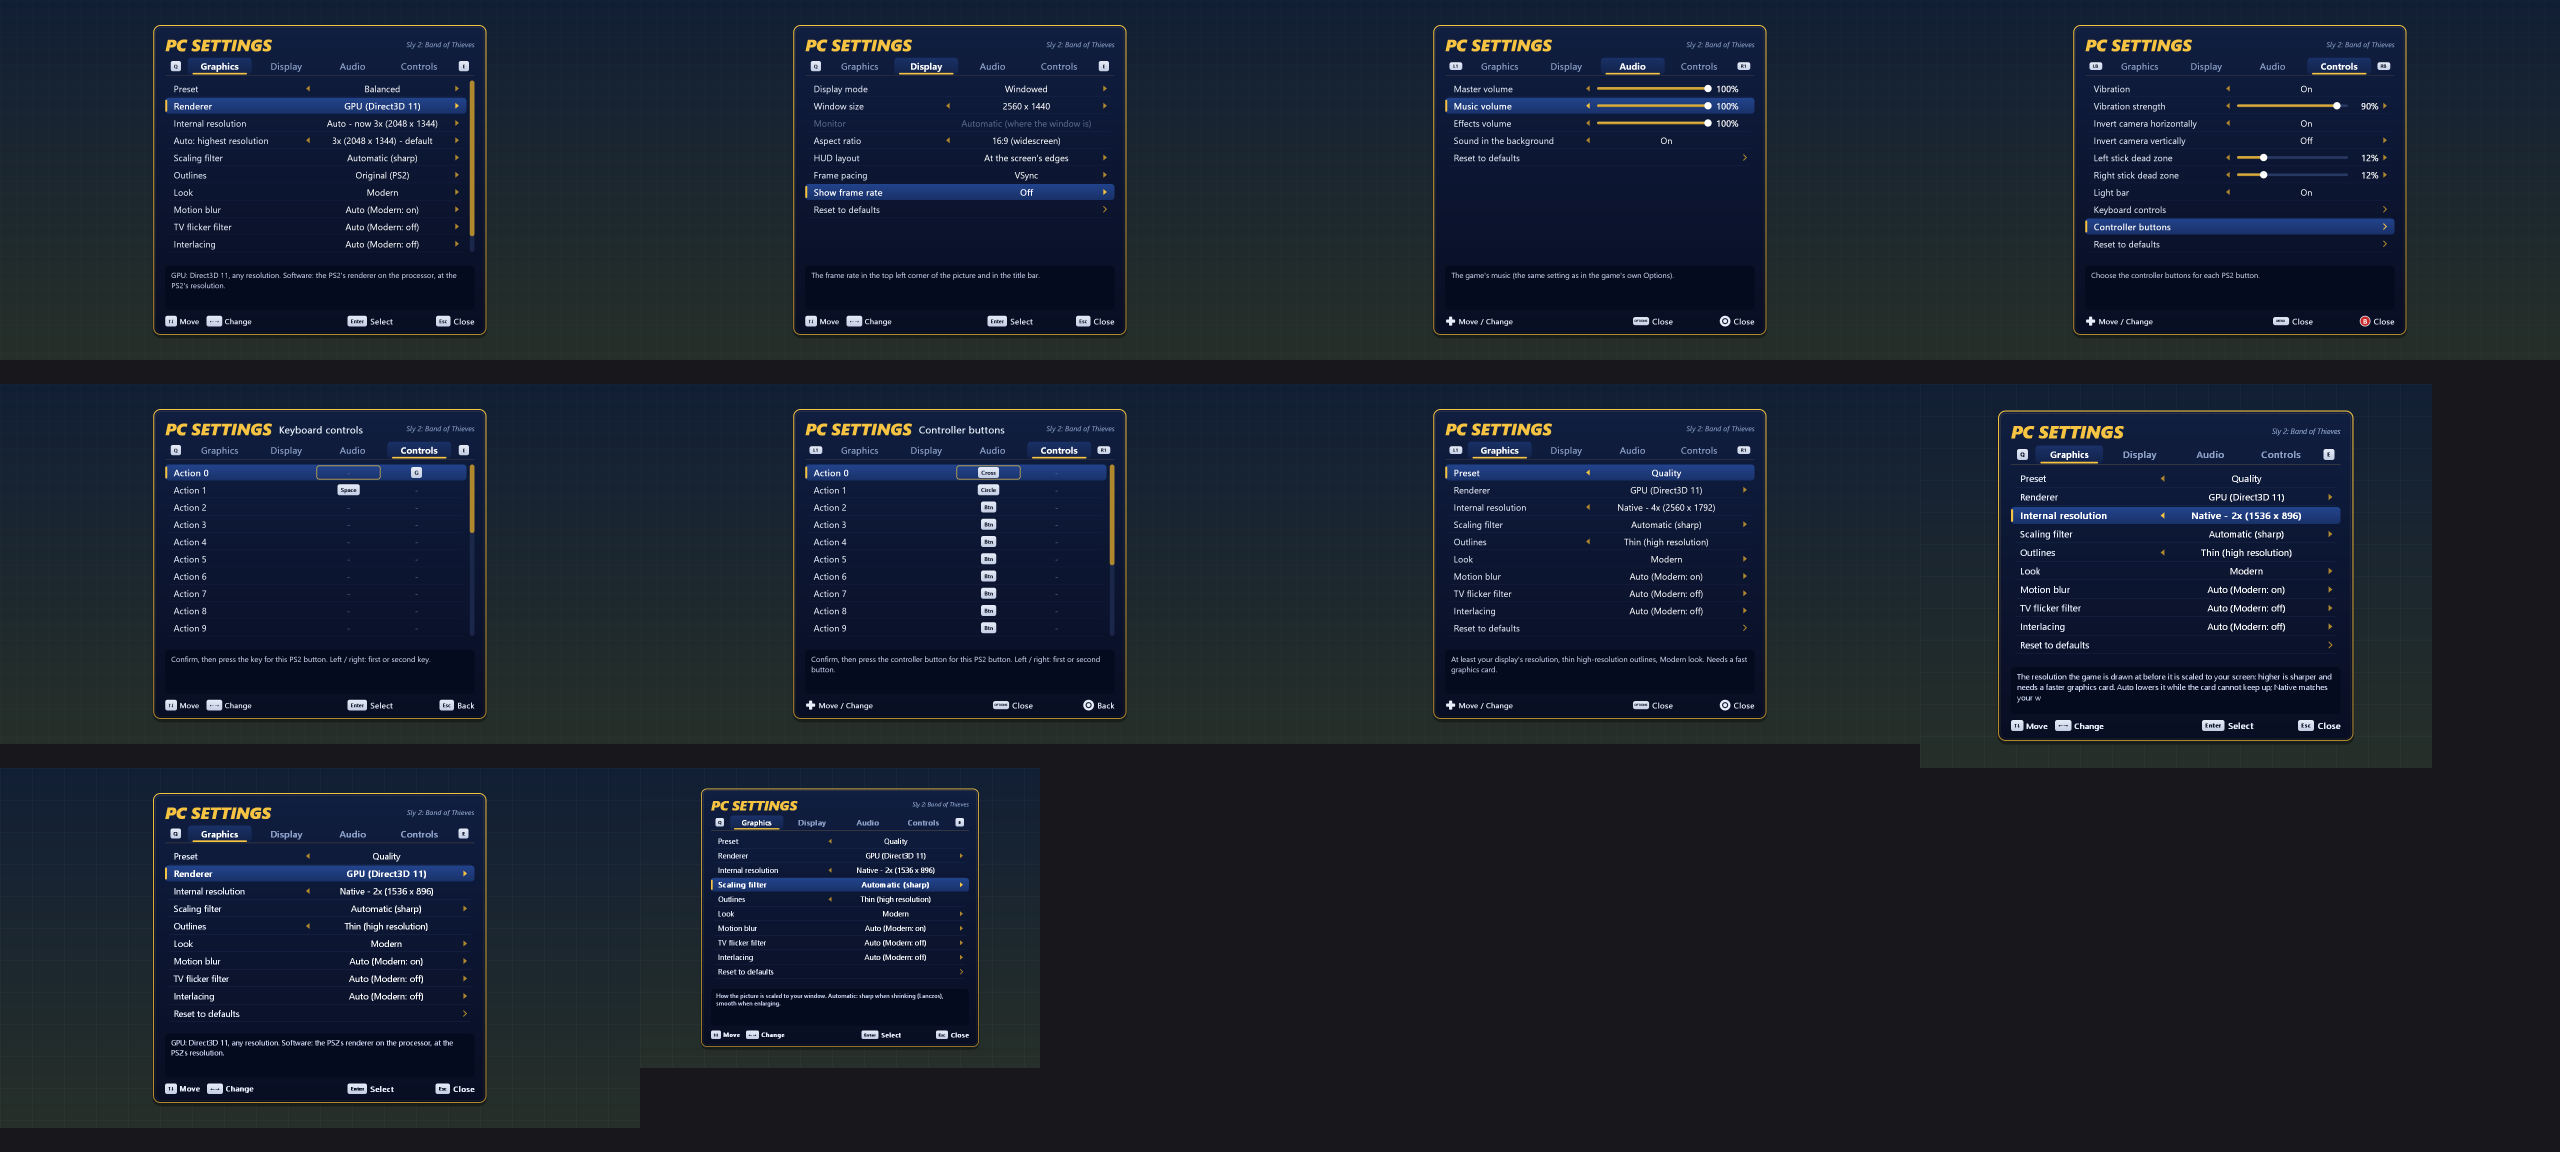
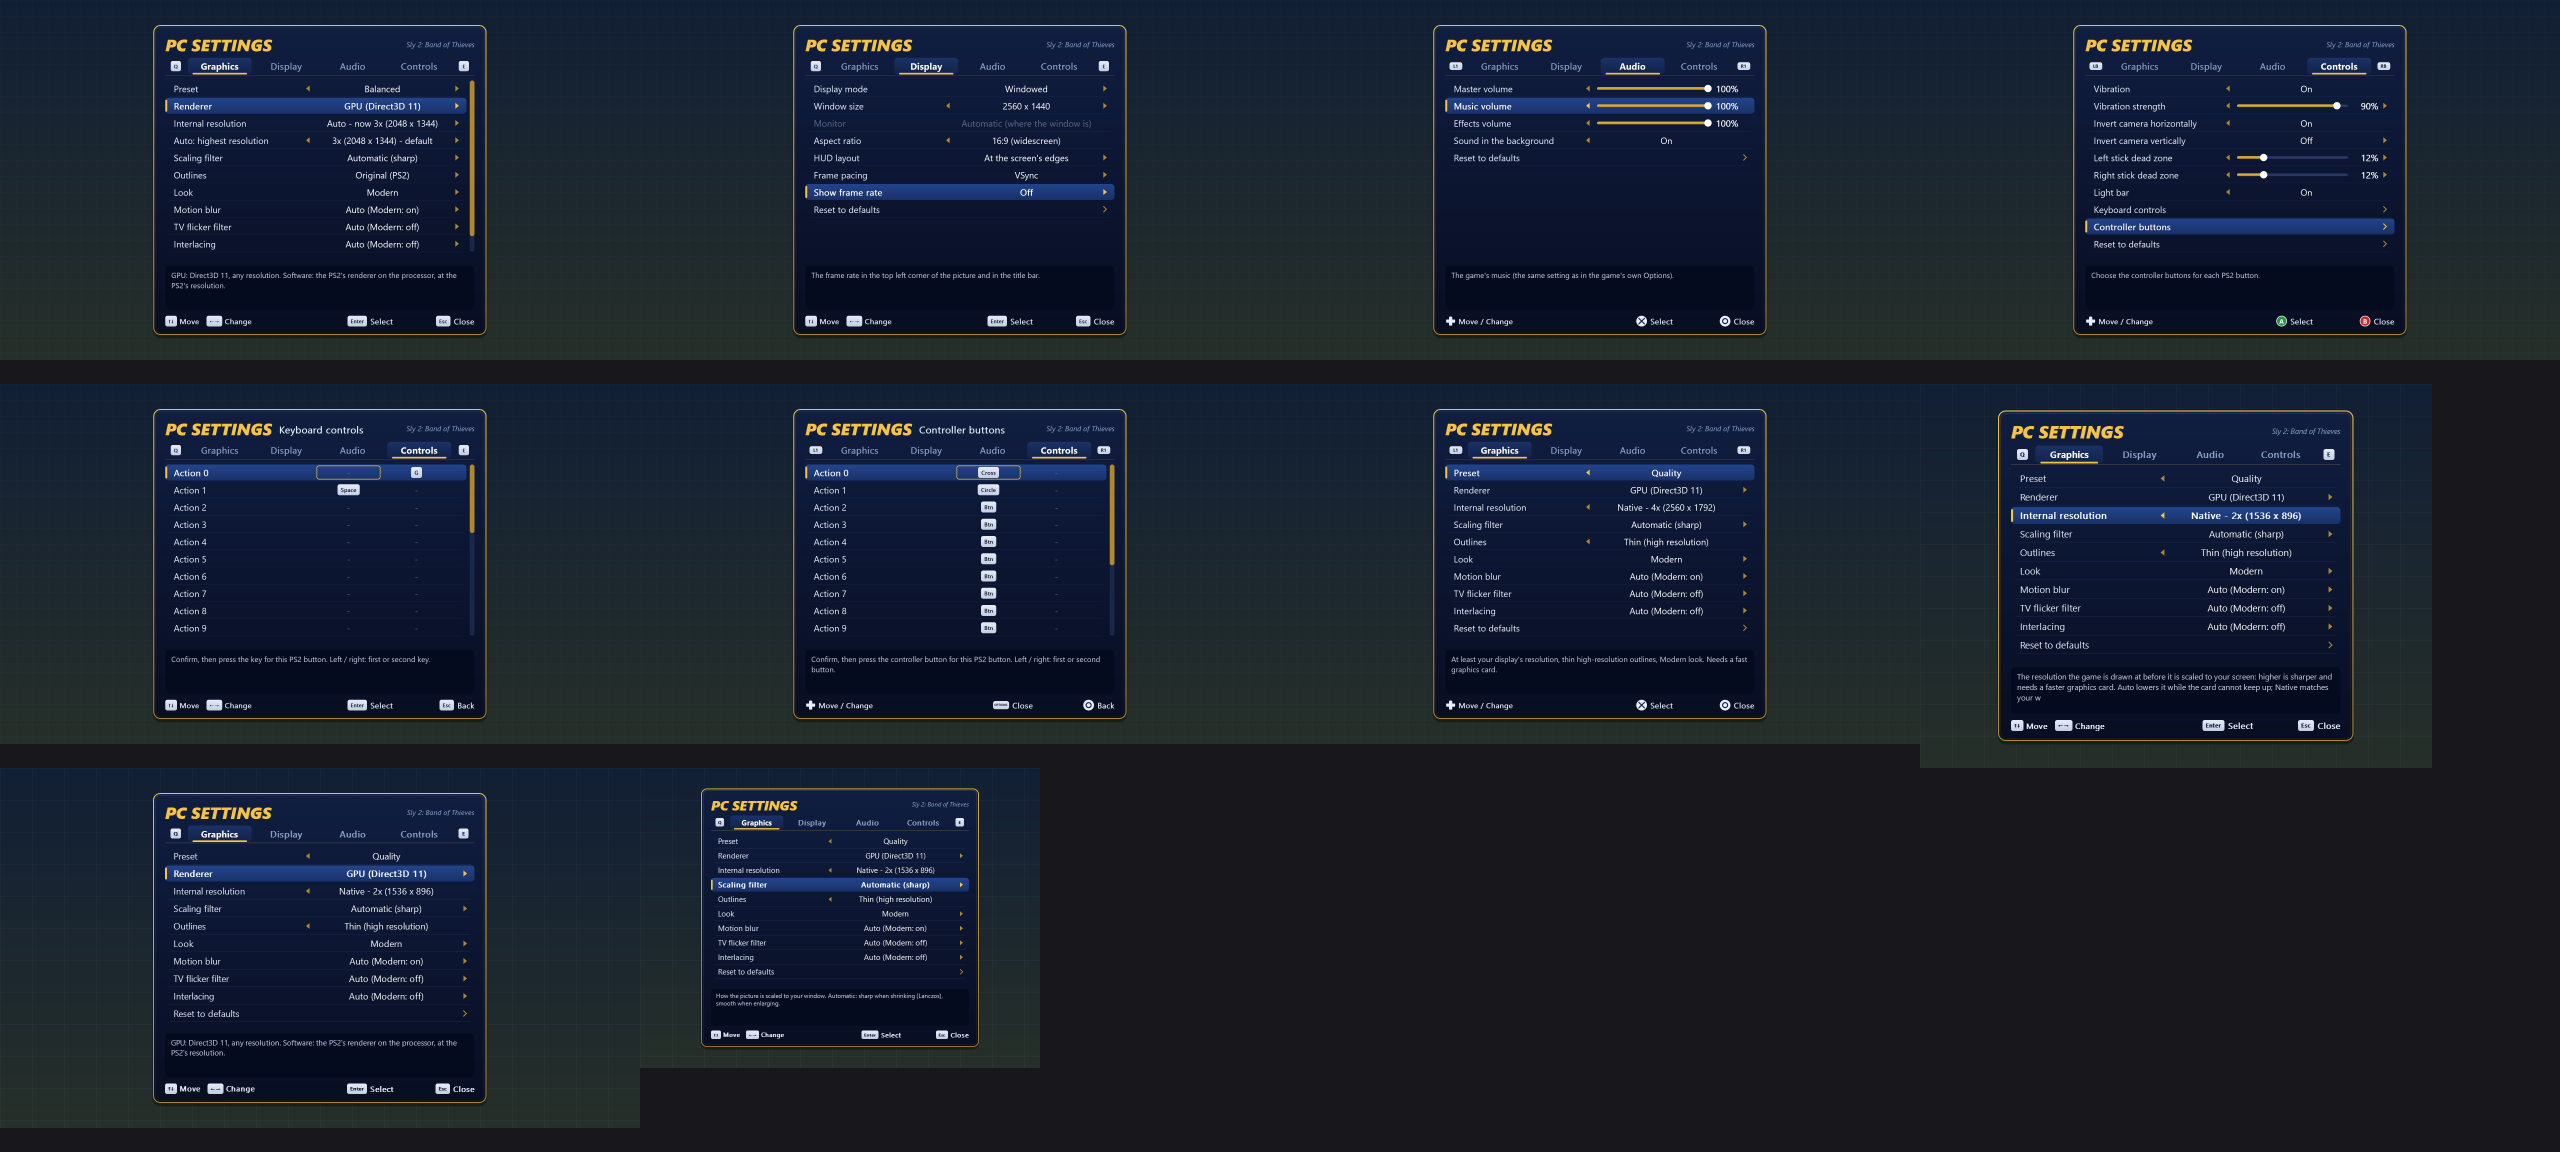
menu: aspect choices reduced (16:10 = 8:5), game volumes kept against save loads / adopted from the game's Options page, headless display applier, GDI screenshots, natural-width text

diff --git a/runtime/menu_game.c b/runtime/menu_game.c
@@ -109,13 +109,11 @@ void pcmenu_start(ps2_ctx* ctx) {
 volatile LONG pcmenu_open_pending;
 static volatile ULONGLONG open_deadline;
 
-static void sync_volumes_from_game(void);
-
 /* Esc / PS button / "menu" token: the game's pause menu first (the game is paused while the menu is open), then the
  * menu; where the game cannot pause (title, movies, loading) the menu opens over it after 0.5 s */
 static void request_open(void) {
     if (menu_is_open()) return;
-    if (pause_list_up()) { sync_volumes_from_game(); menu_open(); return; }
+    if (pause_list_up()) { menu_open(); return; }
     open_deadline = GetTickCount64() + 500;
     InterlockedExchange(&pcmenu_open_pending, 1);
     pcmenu_pause_req = 1;
@@ -127,7 +125,6 @@ static void tick(void) {
     if (pause_idle() || GetTickCount64() > open_deadline) {
         if (!InterlockedExchange(&pcmenu_open_pending, 0)) return;
         pcmenu_pause_req = 0;
-        sync_volumes_from_game();
         menu_open();
     }
 }
@@ -150,14 +147,31 @@ void menu_focus(int active) {
     update_gain();
 }
 
-/* the game's own music / effects volumes changed (its Options page, a loaded save): the menu shows and keeps them */
-static void sync_volumes_from_game(void) {
-    if (!ee_applied || !ps2_ram) return;
+/* The game's music / effects volumes (its sound manager: +0x150 = kind 1 category 1, +0x14C = kind 1 category 0)
+ * changed after we set them. On its own Options page (pause menu depth >= 2, page 2 = the options list 0x2F6470)
+ * that is the player: the menu takes the new values over (sly2.ini too). Anywhere else (a loaded save sets the
+ * volumes it was saved with): ours again. */
+#define PM_PAGE2_ENTRIES 0x003D9F18u
+#define GAME_OPTIONS_LIST 0x002F6470u
+static float applied_mu = -1.0f, applied_ef = -1.0f;
+static int adopting;
+
+static int game_options_open(void) {
+    int32_t depth = (int32_t)rd32(PM_DEPTH);
+    return depth >= 2 && depth <= 3 && rd32(PM_PAGE2_ENTRIES) == GAME_OPTIONS_LIST;
+}
+
+static void watch_volumes(void) {
     float mu = rdf(SND_MGR + 0x150), ef = rdf(SND_MGR + 0x14C);
     if (!(mu >= 0.0f && mu <= 1.0f) || !(ef >= 0.0f && ef <= 1.0f)) return;
-    int m = (int)lrintf(mu * 100.0f), e = (int)lrintf(ef * 100.0f);
-    if (abs(m - ps2_settings.vol_music) > 1) settings_change_key("audio", "music", m, 1);
-    if (abs(e - ps2_settings.vol_effects) > 1) settings_change_key("audio", "effects", e, 1);
+    if (fabsf(mu - applied_mu) < 0.002f && fabsf(ef - applied_ef) < 0.002f) return;
+    if (!game_options_open()) { pcmenu_ee_pending = 1; return; }
+    applied_mu = mu;
+    applied_ef = ef;
+    adopting = 1;                        /* (no write back into the game: it has them) */
+    settings_change_key("audio", "music", (int)lrintf(mu * 100.0f), 1);
+    settings_change_key("audio", "effects", (int)lrintf(ef * 100.0f), 1);
+    adopting = 0;
 }
 
 static void call_volume(ps2_ctx* ctx, int category, float v) {
@@ -177,12 +191,15 @@ static void call_volume(ps2_ctx* ctx, int category, float v) {
  * effects = categories 0 and 3 */
 void pcmenu_ee_frame(ps2_ctx* ctx) {
     tick();
+    if (ee_applied && !pcmenu_ee_pending) watch_volumes();
     if (!pcmenu_ee_pending) return;
     pcmenu_ee_pending = 0;
     float mu = ps2_settings.vol_music / 100.0f, ef = ps2_settings.vol_effects / 100.0f;
     call_volume(ctx, 1, mu);
     call_volume(ctx, 0, ef);
     call_volume(ctx, 3, ef);
+    applied_mu = rdf(SND_MGR + 0x150);   /* (what the game stored: the values watched from now on) */
+    applied_ef = rdf(SND_MGR + 0x14C);
     if (!ee_applied) fprintf(stderr, "[menu] game volumes: music %d%%, effects %d%%\n", ps2_settings.vol_music, ps2_settings.vol_effects);
     ee_applied = 1;
 }
@@ -190,7 +207,7 @@ void pcmenu_ee_frame(ps2_ctx* ctx) {
 static void audio_applier(int option) {
     (void)option;
     update_gain();
-    pcmenu_ee_pending = 1;
+    if (!adopting) pcmenu_ee_pending = 1;
 }
 
 /* ---- renderer, pacing ------------------------------------------------------------------------------------------ */
@@ -206,6 +223,13 @@ static void renderer_applier(int option) {
 static void pacing_applier(int option) {
     (void)option;
     if (!pacing_apply_mode(ps2_settings.pacing)) fprintf(stderr, "[menu] frame pacing %d applies at the next start\n", ps2_settings.pacing);
+}
+
+/* [display] aspect / hud without a window (headless runs; window.c registers its own, which also remembers the wide
+ * aspect for F7): the game takes it at its next frame */
+static void display_applier(int option) {
+    (void)option;
+    aspect_request(ps2_settings.aspect_w, ps2_settings.aspect_h, ps2_settings.hud_centered);
 }
 
 /* ---- host ------------------------------------------------------------------------------------------------------ */
@@ -235,6 +259,7 @@ void menu_game_init(int headless) {
     settings_on_apply(SET_APPLY_AUDIO, audio_applier);
     settings_on_apply(SET_APPLY_RENDERER, renderer_applier);
     settings_on_apply(SET_APPLY_PACING, pacing_applier);
+    if (headless) settings_on_apply(SET_APPLY_DISPLAY, display_applier);
     update_gain();
     pcmenu_ee_pending = 1;               /* the [audio] volumes into the game once its main loop runs */
 }

diff --git a/runtime/menu_overlay.c b/runtime/menu_overlay.c
@@ -375,5 +375,28 @@ void overlay_gdi_draw(void* hdc, int w, int h) {
         }
         if (mem) DeleteDC(mem);
     }
+    if (InterlockedExchange(&shot_pending, 0)) {  /* the window's picture, as drawn (a requested screenshot) */
+        HDC mem = CreateCompatibleDC((HDC)hdc);
+        BITMAPINFO bi;
+        memset(&bi, 0, sizeof bi);
+        bi.bmiHeader.biSize = sizeof bi.bmiHeader;
+        bi.bmiHeader.biWidth = w;
+        bi.bmiHeader.biHeight = -h;
+        bi.bmiHeader.biPlanes = 1;
+        bi.bmiHeader.biBitCount = 32;
+        bi.bmiHeader.biCompression = BI_RGB;
+        void* bits = NULL;
+        HBITMAP bmp = mem ? CreateDIBSection(mem, &bi, DIB_RGB_COLORS, &bits, NULL, 0) : NULL;
+        if (bmp) {
+            HGDIOBJ old = SelectObject(mem, bmp);
+            BitBlt(mem, 0, 0, w, h, (HDC)hdc, 0, 0, SRCCOPY);
+            GdiFlush();
+            debug_write_png(shot_path, bits, w, h, w);
+            fprintf(stderr, "[menu] screenshot %dx%d (GDI) -> %s\n", w, h, shot_path);
+            SelectObject(mem, old);
+            DeleteObject(bmp);
+        }
+        if (mem) DeleteDC(mem);
+    }
     ReleaseSRWLockExclusive(&lock);
 }

diff --git a/recomp/patches.py b/recomp/patches.py
@@ -164,9 +164,10 @@ PATCHES: list[Patch] = [
           "after f_00187D80(pad, START) returned whether START was pressed ($v0), where the HUD manager opens the "
           "pause menu (jal 0x1B0290): Esc / the PS button pause the game exactly as START does, only where START would"),
     Patch("pcmenu_frame", *MAIN_LOOP, 0x001A75A8, "before",
-          "if (pcmenu_ee_pending | pcmenu_open_pending) pcmenu_ee_frame(ctx);",
+          "pcmenu_ee_frame(ctx);",
           "main loop (as aspect_switch): the music / effects volumes chosen in the menu go into the game's sound "
-          "manager with the game's own 0x1FEA60, as its Options page does; a menu waiting for the pause menu opens"),
+          "manager with the game's own 0x1FEA60, as its Options page does (and again when a loaded save resets them); a menu "
+          "waiting for the pause menu opens"),
 ]
 
 

diff --git a/runtime/menu_draw.c b/runtime/menu_draw.c
@@ -157,7 +157,7 @@ static HFONT font(int px, int weight, int italic, int face) {
     for (int k = 0; k < nfonts; k++)
         if (fonts[k].px == px && fonts[k].weight == weight && fonts[k].italic == italic && fonts[k].face == face) return fonts[k].f;
     HFONT f = CreateFontW(-px, 0, 0, 0, weight, (DWORD)italic, 0, 0, DEFAULT_CHARSET, OUT_TT_PRECIS, CLIP_DEFAULT_PRECIS,
-                          ANTIALIASED_QUALITY, DEFAULT_PITCH | FF_SWISS, face == FACE_TITLE ? L"Segoe UI Black" : L"Segoe UI");
+                          CLEARTYPE_NATURAL_QUALITY, DEFAULT_PITCH | FF_SWISS, face == FACE_TITLE ? L"Segoe UI Black" : L"Segoe UI");
     if (nfonts == (int)(sizeof fonts / sizeof fonts[0])) {   /* full: drop them all (sizes changed with the window) */
         for (int k = 0; k < nfonts; k++) DeleteObject(fonts[k].f);
         nfonts = 0;

diff --git a/runtime/menu.c b/runtime/menu.c
@@ -96,15 +96,16 @@ static int reduce(int* w, int* h) {
 }
 
 static void aspect_choices(choices* c) {
+    /* (values reduced, as settings_parse_aspect stores them: 16:10 = 8:5, 21:9 = 7:3) */
     add(c, 4 << 16 | 3, "4:3 (original)");
-    add(c, 16 << 16 | 10, "16:10");
+    add(c, 8 << 16 | 5, "16:10");
     add(c, 16 << 16 | 9, "16:9 (widescreen)");
     int dw, dh, hz;
     h_display(&dw, &dh, &hz);
     int aw = dw, ah = dh;
     reduce(&aw, &ah);
     double d = (double)dw / dh;
-    if (d >= 21.0 / 9.0 - 0.02) add(c, 21 << 16 | 9, "21:9 (ultrawide)");
+    if (d >= 21.0 / 9.0 - 0.02) add(c, 7 << 16 | 3, "21:9 (ultrawide)");
     if (d >= 32.0 / 9.0 - 0.02) add(c, 32 << 16 | 9, "32:9 (super ultrawide)");
     int own = aw << 16 | ah, found = 0;
     for (int k = 0; k < c->n; k++) found |= c->val[k] == own;

diff --git a/runtime/settings.c b/runtime/settings.c
@@ -164,7 +164,13 @@ const char* settings_value_text(int i, int v, char* buf, size_t cap) {
         else snprintf(buf, cap, "%d", v);
         break;
     }
-    case SET_ASPECT: snprintf(buf, cap, "%d:%d", v >> 16, v & 0xFFFF); break;
+    case SET_ASPECT: {                   /* (stored reduced; written as people name them: 16:10, 21:9) */
+        int w = v >> 16, h = v & 0xFFFF;
+        if (w == 8 && h == 5) { w = 16; h = 10; }
+        else if (w == 7 && h == 3) { w = 21; h = 9; }
+        snprintf(buf, cap, "%d:%d", w, h);
+        break;
+    }
     default: break;
     }
     return buf;
